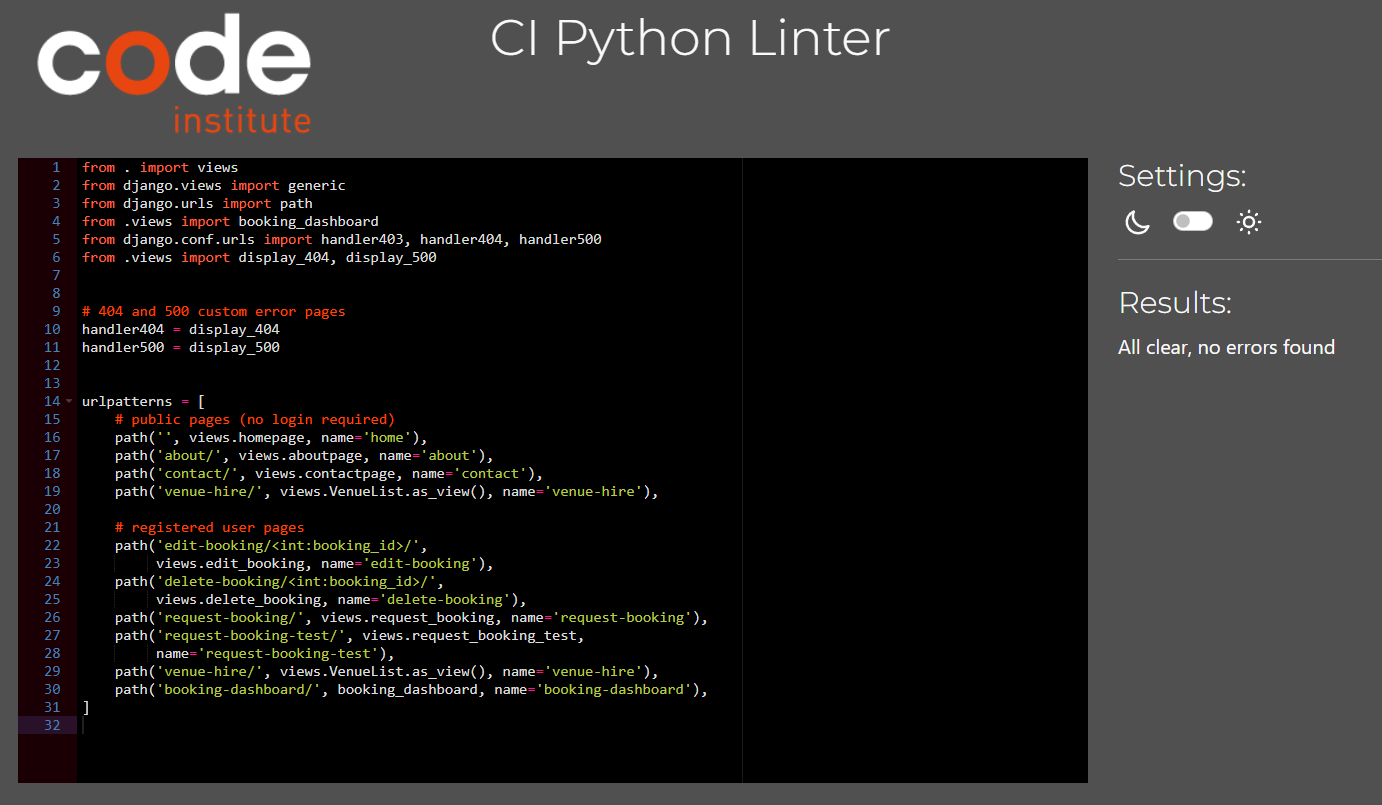
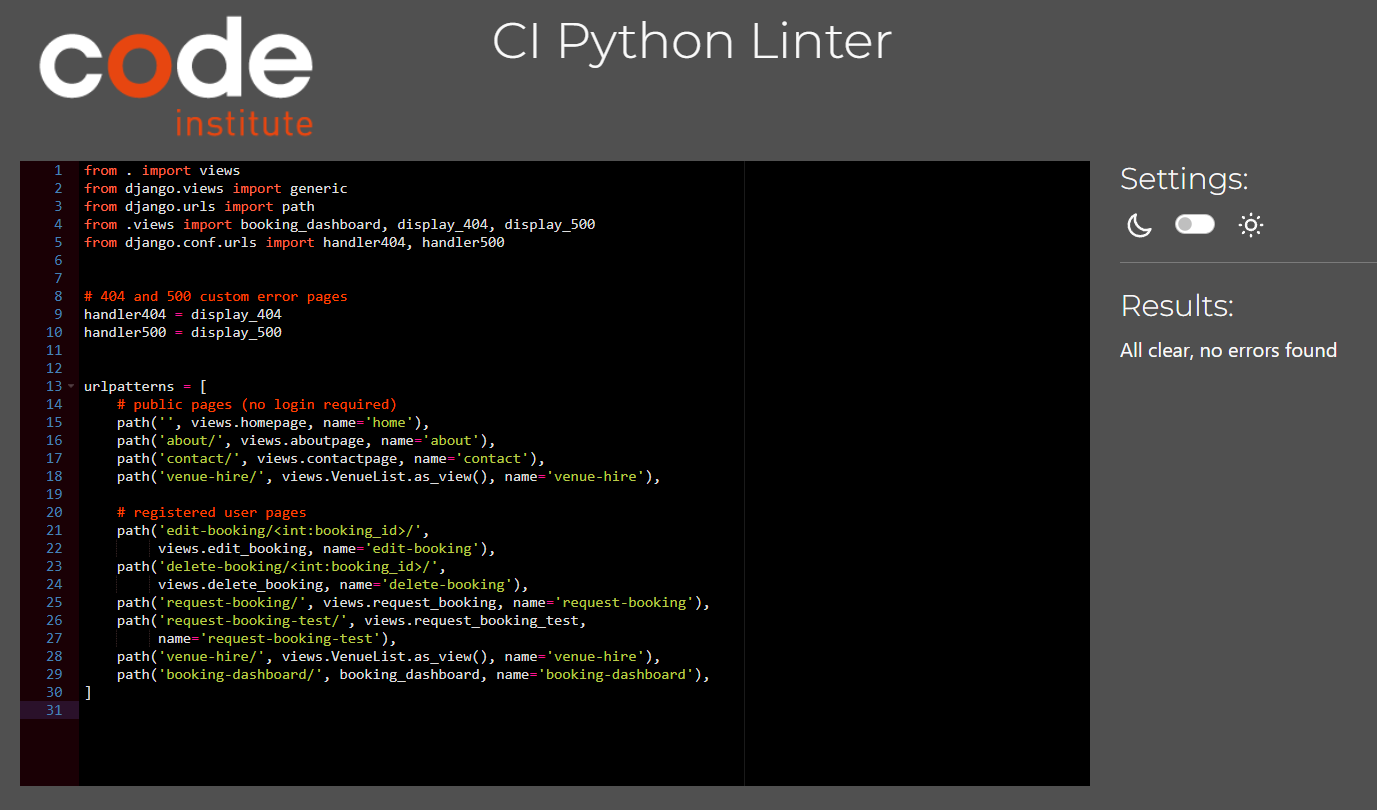
Fix any formatting issues in admin, forms, and test forms files and update TESTING.md with validation info

Changed region(s): [[0.0, 0.0, 0.5309, 0.9317], [0.7807, 0.1863, 0.968, 0.9627], [0.3435, 0.0311, 0.6558, 0.0932]]

diff --git a/booking/forms.py b/booking/forms.py
@@ -5,89 +5,32 @@ from datetime import timedelta
 from django.core.exceptions import NON_FIELD_ERRORS
 from .models import Booking, Email
 
-# TYPE_OF_EVENT_CHOICES = {
-#         ("WED", "Wedding"),
-#         ("COR", "Corporate Event"),
-#         ("GAL", "Gala Event"),
-#         ("OCC", "Special Occasion"),
-#         ("WSP", "Workshop"),
-#         ("OTH", "Other"),
-#     }
 
-# VENUES = {
-#         ("The Chapel"),
-#         ("The Mansion Formal Rooms"),
-#         ("The Conservatory"),
-#         ("OCC"),
-#     }
-
-# DateInput Source: 
+# DateInput Source:
 # https://stackoverflow.com/questions/74227268/how-to-make-a-date-picker-that-does-not-select-previous-dates-in-django
-# Assistance in figuring out how to use timedelta and setting a max time limit by CI Mentor, Sandeep Aggarwal
+# Assistance in figuring out how to use timedelta and setting a max
+# time limit by CI Mentor, Sandeep Aggarwal
 class DateInput(forms.DateInput):
-    input_type = 'date'
+    input_type = "date"
 
     def get_context(self, name, value, attrs):
         today = now()
         first_available_date = today + timedelta(days=5)
         two_years = today + timedelta(days=730)
-        attrs.setdefault('min', first_available_date.strftime('%Y-%m-%d'))
-        attrs.setdefault('max', two_years.strftime('%Y-%m-%d'))
+        attrs.setdefault("min", first_available_date.strftime("%Y-%m-%d"))
+        attrs.setdefault("max", two_years.strftime("%Y-%m-%d"))
         return super().get_context(name, value, attrs)
-     
-     
+
+
 class BookingForm(forms.ModelForm):
     class Meta:
         model = Booking
-        fields = [
-            'venue',
-            'event_type',
-            'event_date',
-            'num_guests'
-        ]
+        fields = ["venue", "event_type", "event_date", "num_guests"]
 
-        widgets = {
-            'event_date': DateInput()
-        }
+        widgets = {"event_date": DateInput()}
 
-    
-    # def clean_num_guests(self):
-    #     data = self.cleaned_data['num_guests']
-    #     if data > 500:
-    #         raise ValidationError("Guest count exceeds maximum. Please adjust to 500 guests or less")
-    # assign error message to num_guest field - not working
-    # def clean(self):
-    #     cleaned_data = super().clean()
-    #     num_guests = cleaned_data.get("num_guests")
-
-        # if num_guests > 500:
-        #     msg = "Guest count exceeds maximum!"
-        #     self.add_error("num_guests", msg)
-
-
-    # def clean(self):
-    #     if self.cleaned_data.get('num_guests') > 500:
-    #         raise BookingForm.ValidationError('Guest count exceeds maximum!')
-    #     return self.cleaned_data
-
-    # def __init__(self, *args, **kwargs):
-    #     super(BookingForm, self).__init__(*args, **kwargs)
-
-    #     # adds custom error messages
-    #     self.fields['num_guests'].error_messages.update({'Guest count cannot exceed 500 people nor be less than 20 people'})
-    
-    # def __init__(self, *args, **kwargs):
-    #     super().__init__(*args, **kwargs)
-    #     self.fields['num_guests'].validators.append(MaxValueValidator(500))
-
-    
 
 class EmailForm(forms.ModelForm):
     class Meta:
         model = Email
-        fields = [
-            'name',
-            'email',
-            'message'
-        ]
-
+        fields = ["name", "email", "message"]

diff --git a/booking/test_forms.py b/booking/test_forms.py
@@ -4,6 +4,7 @@ from .forms import BookingForm, EmailForm
 from django.contrib.auth.models import User
 import json
 
+
 # Create your tests here.
 class TestEmailForm(TestCase):
     """
@@ -21,7 +22,6 @@ class TestEmailForm(TestCase):
         form = EmailForm(data=data)
         self.assertTrue(form.is_valid())
 
-    
     def test_email_form_with_invalid_data(self):
         """
         Test the Email contact form with invalid data
@@ -62,7 +62,6 @@ class TestBookingForm(TestCase):
         }
         form = BookingForm(data=data)
         self.assertTrue(form.is_valid(), json.dumps(form.errors))
-
 
     def test_booking_with_invalid_data(self):
         """

diff --git a/booking/urls.py b/booking/urls.py
@@ -1,9 +1,8 @@
 from . import views
 from django.views import generic
 from django.urls import path
-from .views import booking_dashboard
-from django.conf.urls import handler403, handler404, handler500
-from .views import display_404, display_500
+from .views import booking_dashboard, display_404, display_500
+from django.conf.urls import handler404, handler500
 
 
 # 404 and 500 custom error pages

diff --git a/booking/admin.py b/booking/admin.py
@@ -1,6 +1,7 @@
 from django.contrib import admin
 from django_summernote.admin import SummernoteModelAdmin
 from .models import Venue, Booking, Email
+
 # Register your models here.
 @admin.register(Venue)
 class VenueAdmin(SummernoteModelAdmin):

diff --git a/TESTING.md b/TESTING.md
@@ -156,30 +156,40 @@ This application was developed with HTML, CSS, Javascript, and Python using the 
     </details>
     <details><summary>forms.py</summary>
 
-    ![forms.py](link)
+    ![forms.py](documentation/testing/python/screenshot_python_booking_forms.png)
     </details>
     <details><summary>admin.py</summary>
 
-    ![admin.py](link)
+    ![admin.py](documentation/testing/python/screenshot_python_booking_admin.png)
     </details>
     <details><summary>test_forms.py</summary>
 
-    ![test_forms.py](link)
+    ![test_forms.py](documentation/testing/python/screenshot_python_booking_test_forms.png)
     </details>
     <details><summary>test_views.py</summary>
 
-    ![test_views.py](link)
+    ![test_views.py](documentation/testing/python/screenshot_python_booking_test_views.png)
     </details>
 
 
+  ### Unit Testing
+  I was able to successfully execute unit testing on the booking form and the email contact form. 
 
+  #### Unit Tests Run
+  - Forms: Test EmailForm .is_valid()
+  - Forms: Test EmailForm if no data
+  - Forms: Test BookingForm .is_valid()
+  - Forms: Test BookingForm if not data
 
-
+  <details><summary>Unit Testing Results</summary>
+  
+  ![unit testing](documentation/testing/unit_test/screenshot_unit_test.png)
+  </details>
 
 
 
   ### Manual Testing
-  Manual testing was performed on the website checking for print errors, content errors, and any errors in the flow of the application or in it's calculations.
+  Manual testing was performed on the website checking to ensure pages rendered correctly, input forms worked correctly, and a user was able to create, view, edit, and delete their bookings.
 
   #### Browsers
   1. Microsoft Edge
@@ -189,10 +199,12 @@ This application was developed with HTML, CSS, Javascript, and Python using the 
   #### The results of testing are as follows:
   | Page | Test | Pass/Fail |
   | ---- | ---- | --------- |
-  | Intro/Logo  | Does the Logo page load and allow the user to progress to the Main Menu? | Pass |
-  | Main Menu  | Does the Main menu display correctly | Pass |
-  | Main Menu  | Is the input validation for the Main Menu working correctly? | Pass |
-  | Main Menu  | If the user selects an option from the Main Menu, does it direct the user to that option correctly? | Pass |
+  | Home page  | Does the Home page load correctly? | ? |
+  | Home page (base.html) | Do all the navigation links work? | ? |
+  |Home page (base.html) | Do all the footer links work? | ? |
+  | Venue Hire page  | Does the Venue Hire page load? | ? |
+  | Venue Hire page  | Do all the venues render correctly? | ? |
+  | Venue Hire page  | Does the generic booking link take you the booking form page? | ? |
   | Add Mortgage  | On the Add Mortgage page, does it allow the user to create a Mortgage profile? | Pass |
   | Add Mortgage  | Is the input validation on the Add Mortgage page working? | Pass |
   | Add Mortgage  | Is a Mortgage profile added correctly if the user selects this option? | Pass |
